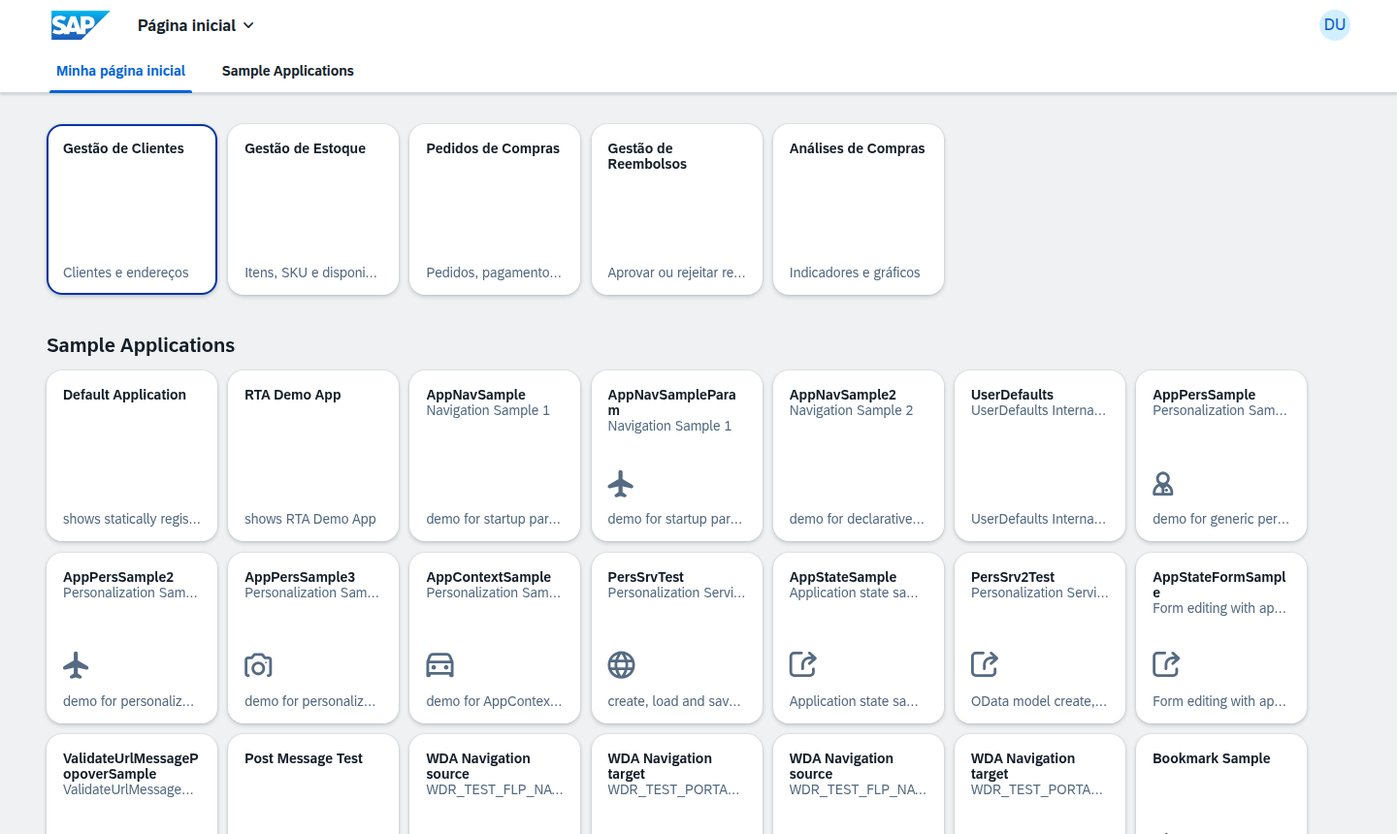
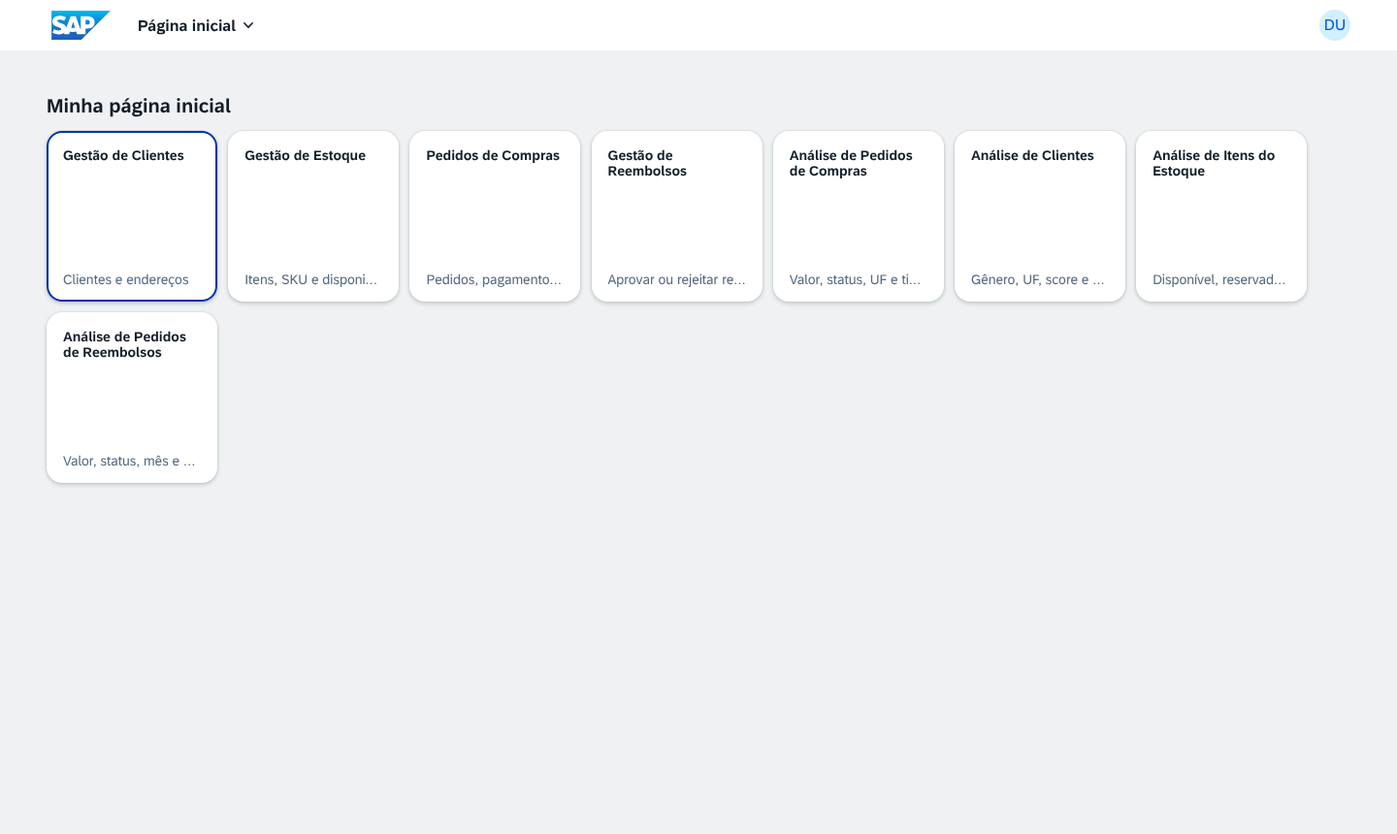
docs: READMEs com as quatro apps de análise, a máscara do pagamento e as navegações
- README principal: oito apps e tiles, tabelas de apps e análises por
  domínio, diálogo Efetuar Pagamento com máscara, novas navegações
  (pedido → reembolso, snapshots → apps de origem, Abrir gestão),
  testes QUnit das análises, v1.5 no histórico; saem as limitações
  resolvidas (cartão sem máscara, grupo Sample Applications no sandbox).
- Capturas novas: launchpad com oito tiles, os quatro painéis de
  análise e o diálogo de pagamento; sai analises.png.
- READMEs de nodejs-padrao e nodejs-typescript com as apps novas.
- Comentário do config.js do launchpad mais claro.

Claude-Session: https://claude.ai/code/session_013oL5EGurJ959oQVN8TwK5j

diff --git a/nodejs-padrao/app/launchpad/config.js b/nodejs-padrao/app/launchpad/config.js
@@ -1,7 +1,8 @@
 /*
  * Configuração do launchpad local (sandbox do SAP Fiori launchpad): um tile
- * por aplicação (quatro de gestão, Pedidos de Compras e quatro de análise). Os intents (objeto semântico + ação) são os mesmos dos
- * inbounds dos manifests, o que habilita a navegação entre as aplicações
+ * por aplicação, quatro de gestão (Clientes, Estoque, Pedidos de Compras e
+ * Reembolsos) e quatro de análise. Os intents (objeto semântico + ação) são
+ * os mesmos dos inbounds dos manifests, o que habilita a navegação entre as aplicações
  * (ex.: cliente e item do pedido abrem as apps de Clientes e Estoque).
  *
  * A resolução de intents no cliente (ClientSideTargetResolution) precisa estar

diff --git a/nodejs-typescript/app/launchpad/config.js b/nodejs-typescript/app/launchpad/config.js
@@ -1,7 +1,8 @@
 /*
  * Configuração do launchpad local (sandbox do SAP Fiori launchpad): um tile
- * por aplicação (quatro de gestão, Pedidos de Compras e quatro de análise). Os intents (objeto semântico + ação) são os mesmos dos
- * inbounds dos manifests, o que habilita a navegação entre as aplicações
+ * por aplicação, quatro de gestão (Clientes, Estoque, Pedidos de Compras e
+ * Reembolsos) e quatro de análise. Os intents (objeto semântico + ação) são
+ * os mesmos dos inbounds dos manifests, o que habilita a navegação entre as aplicações
  * (ex.: cliente e item do pedido abrem as apps de Clientes e Estoque).
  *
  * A resolução de intents no cliente (ClientSideTargetResolution) precisa estar

diff --git a/README.md b/README.md
@@ -1,9 +1,10 @@
 <h1 align="center">Pedidos de Compras – SAP CAP / Node.js</h1>
 
 <p align="center">
-  Cinco aplicações SAPUI5 — <b>Gestão de Clientes</b>, <b>Gestão de Estoque</b>, <b>Pedidos de Compras</b>,
-  <b>Gestão de Reembolsos</b> e <b>Análises de Compras</b> — com backend em <b>SAP Cloud Application
-  Programming Model (CAP)</b> sobre Node.js, em duas versões: <b>JavaScript</b> e <b>TypeScript</b>.
+  Oito aplicações SAPUI5 — quatro de gestão (<b>Clientes</b>, <b>Estoque</b>, <b>Pedidos de Compras</b> e
+  <b>Reembolsos</b>) e quatro de análise (<b>Pedidos de Compras</b>, <b>Clientes</b>, <b>Itens do Estoque</b> e
+  <b>Pedidos de Reembolsos</b>) — com backend em <b>SAP Cloud Application Programming Model (CAP)</b> sobre
+  Node.js, em duas versões: <b>JavaScript</b> e <b>TypeScript</b>.
 </p>
 
 <p align="center">
@@ -80,7 +81,10 @@ regras de domínio, dos testes e dos scripts.
 | Gestão de Estoque | Itens (SKU, foto, categoria, descrição), disponibilidade e status | `EstoqueService` (`/odata/v4/estoque`) | `ZUI_PC_ESTOQUE` |
 | Pedidos de Compras | Pedidos, itens, pagamento simulado, cancelamento e histórico (snapshots) | `PedidosService` (`/odata/v4/pedidos`) | `ZUI_PC_PEDIDOS_COMPRAS` |
 | Gestão de Reembolsos | Aprovação e rejeição de reembolsos de pedidos cancelados com pagamento aprovado | `ReembolsosService` (`/odata/v4/reembolsos`) | `ZUI_PC_REEMBOLSOS` |
-| Análises de Compras | 20 análises (indicadores e gráficos) dos quatro domínios | `AnaliticoService` (`/odata/v4/analitico`) | `ZUI_PC_ANALITICO` |
+| Análise de Pedidos de Compras | Indicadores e 5 gráficos dos pedidos (valor, status, pagamento, UF, mês) | `AnaliticoService` (`/odata/v4/analitico`) | `ZUI_PC_ANALITICO` |
+| Análise de Clientes | Indicadores e 5 gráficos dos clientes (gênero, UF, score, cadastros) | `AnaliticoService` | `ZUI_PC_ANALITICO` |
+| Análise de Itens do Estoque | Indicadores e 5 gráficos do estoque (categoria, situação, reservas, valor) | `AnaliticoService` | `ZUI_PC_ANALITICO` |
+| Análise de Pedidos de Reembolsos | Indicadores e 5 gráficos dos reembolsos (status, mês, UF, motivo) | `AnaliticoService` | `ZUI_PC_ANALITICO` |
 
 > [!NOTE]
 > Em desenvolvimento o banco é **SQLite em memória**, recriado a cada inicialização com os dados de
@@ -92,7 +96,7 @@ regras de domínio, dos testes e dos scripts.
 ## Demonstração
 
 <p align="center">
-  <img src="docs/assets/launchpad.png" alt="Launchpad local com os cinco tiles" width="900">
+  <img src="docs/assets/launchpad.png" alt="Launchpad local com os oito tiles" width="900">
 </p>
 
 | Pedidos de Compras | Object Page do pedido |
@@ -103,9 +107,17 @@ regras de domínio, dos testes e dos scripts.
 | :----------------: | :---------------: |
 | <img src="docs/assets/clientes.png" alt="Lista de clientes" width="440"> | <img src="docs/assets/estoque.png" alt="Lista de itens de estoque" width="440"> |
 
-| Gestão de Reembolsos | Análises de Compras |
-| :------------------: | :-----------------: |
-| <img src="docs/assets/reembolsos.png" alt="Lista de reembolsos" width="440"> | <img src="docs/assets/analises.png" alt="Painel de análises de pedidos" width="440"> |
+| Gestão de Reembolsos | Efetuar Pagamento (campos com máscara) |
+| :------------------: | :------------------------------------: |
+| <img src="docs/assets/reembolsos.png" alt="Lista de reembolsos" width="440"> | <img src="docs/assets/pagamento-mascara.png" alt="Diálogo Efetuar Pagamento com máscara no cartão, validade e CVV" width="440"> |
+
+| Análise de Pedidos de Compras | Análise de Clientes |
+| :---------------------------: | :-----------------: |
+| <img src="docs/assets/analise-pedidos.png" alt="Painel da Análise de Pedidos de Compras" width="440"> | <img src="docs/assets/analise-clientes.png" alt="Painel da Análise de Clientes" width="440"> |
+
+| Análise de Itens do Estoque | Análise de Pedidos de Reembolsos |
+| :-------------------------: | :------------------------------: |
+| <img src="docs/assets/analise-estoque.png" alt="Painel da Análise de Itens do Estoque" width="440"> | <img src="docs/assets/analise-reembolsos.png" alt="Painel da Análise de Pedidos de Reembolsos" width="440"> |
 
 ---
 
@@ -126,19 +138,24 @@ regras de domínio, dos testes e dos scripts.
   pedido (`ABERTO`) e reserva o estoque; no pedido aberto só os **itens** mudam e a reserva é
   ajustada pela **diferença**. O pedido não é excluído — só **Efetuar Pagamento**, **Aprovar pedido**
   e **Cancelar pedido** (com motivo).
-- **Pagamento simulado** por cartão (VISA/Mastercard): número, validade e CVV ficam só em memória;
-  gravam-se bandeira, últimos 4 dígitos e máscara. A seção de pagamento é somente leitura e só a ação
-  *Efetuar Pagamento* a preenche.
+- **Pagamento simulado** por cartão (VISA/Mastercard): o diálogo de *Efetuar Pagamento* tem máscara
+  de digitação no número do cartão (`9999 9999 9999 9999`), na validade (`MM/AA`) e no CVV (`999`).
+  Número, validade e CVV ficam só em memória; gravam-se bandeira, últimos 4 dígitos e máscara. A seção
+  de pagamento é somente leitura e só a ação *Efetuar Pagamento* a preenche.
 - **Object Page dinâmica do pedido**: *Dados do Cliente*, *Dados do Pedido*, *Itens*, *Pagamento* e,
   conforme o status, *Finalização* ou *Cancelamento*; cliente e itens vêm dos **snapshots** quando o
   pedido está `FINALIZADO` ou `CANCELADO`.
 - **Reembolso**: cancelar um pedido com pagamento aprovado abre uma solicitação
   (`PROCESSANDO_REEMBOLSO`), decidida na app **Gestão de Reembolsos**.
 - **Importação por planilha** (`.xlsx` ou `.csv`) em Clientes, Estoque e Pedidos, tudo ou nada.
-- **Análises**: app freestyle com 20 análises sobre um serviço com agregações `$apply`.
-- **Launchpad local** (sandbox do SAP Fiori launchpad) com os cinco tiles e navegação entre as apps
-  por objetos semânticos: no pedido, Cliente e CPF abrem o cliente e Item e SKU abrem o item; no
-  reembolso, o Pedido abre o pedido e Cliente e CPF abrem o cliente, sempre direto no registro.
+- **Análises**: quatro apps freestyle, uma por domínio (pedidos, clientes, estoque e reembolsos),
+  cada uma com barra de filtros, indicadores, 5 gráficos e página de detalhe, sobre um serviço com
+  agregações `$apply`; o botão *Abrir gestão* leva à app de gestão do domínio.
+- **Launchpad local** (sandbox do SAP Fiori launchpad) com os oito tiles e navegação entre as apps
+  por objetos semânticos, sempre direto no registro: no pedido, Cliente e CPF abrem o cliente, Item e
+  SKU abrem o item e *Solicitação de reembolso* abre o reembolso do pedido; no histórico do pedido
+  (snapshots), cliente e item também abrem as apps de origem; no reembolso, o Pedido abre o pedido e
+  Cliente e CPF abrem o cliente.
 - **Autorização** por papel: `Admin` e `Comum` (`@requires` / `@restrict`).
 - **Concorrência** de estoque com `UPDATE` condicional atômico na transação da requisição.
 
@@ -152,7 +169,7 @@ regras de domínio, dos testes e dos scripts.
 | Linguagem | JavaScript (`nodejs-padrao`) e TypeScript 6 `strict` com `@cap-js/cds-typer` e `tsx` (`nodejs-typescript`) |
 | Banco | SQLite em memória (`@cap-js/sqlite`) em desenvolvimento; SAP HANA Cloud na implantação (pendente) |
 | Serviços | OData V4 com rascunho (draft), `@restrict`, `@assert`/`@mandatory`, side effects, `$apply` |
-| Front-end | SAPUI5 1.148 (LTS): Fiori Elements V4 (List Report + Object Page) e app freestyle, servidos pelo `cds-plugin-ui5` |
+| Front-end | SAPUI5 1.148 (LTS): Fiori Elements V4 (List Report + Object Page) e apps freestyle, servidos pelo `cds-plugin-ui5` |
 | Integração | ViaCEP via `fetch` nativo (URL em `cds.requires.viacep`) |
 | Ferramentas | `@sap/cds-dk` 10, SAP Fiori tools (geração das apps), UI5 linter, ESLint 10, `local-ssl-proxy` (HTTPS local) |
 | Testes | `node:test` + `@cap-js/cds-test` (68 testes por versão), ViaCEP falso local |
@@ -169,7 +186,7 @@ flowchart LR
         APPE["Gestão de Estoque"]
         APPP["Pedidos de Compras"]
         APPR["Gestão de Reembolsos"]
-        APPA["Análises de Compras"]
+        APPA["Análises<br/>Pedidos · Clientes<br/>Estoque · Reembolsos"]
     end
 
     subgraph CAP["SAP CAP (Node.js)"]
@@ -192,6 +209,8 @@ flowchart LR
     APPP -. objeto semântico .-> APPE
     APPR -. objeto semântico .-> APPP
     APPR -. objeto semântico .-> APPC
+    APPP -. objeto semântico .-> APPR
+    APPA -. abrir gestão .-> APPC & APPE & APPP & APPR
     SC & SE & SP & SR --> LIB
     LIB --> DB
     SA --> DB
@@ -239,7 +258,10 @@ stateDiagram-v2
 │   │   ├── gestao-estoque/            Fiori Elements
 │   │   ├── pedidos-compras/           Fiori Elements
 │   │   ├── gestao-reembolsos/         Fiori Elements
-│   │   ├── analise-compras/           SAPUI5 freestyle (20 análises)
+│   │   ├── analise-pedidos/           SAPUI5 freestyle: Análise de Pedidos de Compras
+│   │   ├── analise-clientes/          SAPUI5 freestyle: Análise de Clientes
+│   │   ├── analise-estoque/           SAPUI5 freestyle: Análise de Itens do Estoque
+│   │   ├── analise-reembolsos/        SAPUI5 freestyle: Análise de Pedidos de Reembolsos
 │   │   ├── launchpad.html             sandbox do SAP Fiori launchpad
 │   │   └── launchpad/                 configuração e inicialização do launchpad
 │   ├── db/
@@ -306,7 +328,7 @@ npm install
 npm run watch            # serviços + apps em http://localhost:4004
 ```
 
-Abra `http://localhost:4004/launchpad.html` (launchpad com os cinco tiles) ou a página inicial do
+Abra `http://localhost:4004/launchpad.html` (launchpad com os oito tiles) ou a página inicial do
 CAP, que lista serviços e apps. O banco SQLite em memória é recriado a cada inicialização com os dados
 de `db/data`: 100 clientes, 100 itens e 100 pedidos em todos os status (porte das classes
 `ZCL_SETUP_*`). Para regenerar os CSVs: `npm run dados:demo`.
@@ -341,7 +363,7 @@ Autenticação *mocked* do CAP:
 ## Front-end Fiori
 
 Quatro apps **Fiori Elements OData V4** (List Report + Object Page), geradas com o **SAP Fiori tools**,
-e uma app **SAPUI5 freestyle**. Ficam em `app/` de cada implementação e são servidas pelo próprio CAP
+e quatro apps **SAPUI5 freestyle** de análise. Ficam em `app/` de cada implementação e são servidas pelo próprio CAP
 via `cds-plugin-ui5`. A UI é orientada a anotações: colunas, filtros, seções, ações, criticidade e
 side effects vêm de `app/<app>/annotations.cds` e `app/common.cds`.
 
@@ -349,14 +371,23 @@ side effects vêm de `app/<app>/annotations.cds` e `app/common.cds`.
 | --- | --- | --- | --- |
 | Gestão de Clientes | `/gestaoclientes/index.html` | Cliente → Endereço | `Cliente-manage` |
 | Gestão de Estoque | `/gestaoestoque/index.html` | Item | `ItemEstoque-manage` |
-| Pedidos de Compras | `/pedidoscompras/index.html` | Pedido → Item do pedido / Item histórico | `PedidoCompra-manage` |
+| Pedidos de Compras | `/pedidoscompras/index.html` | Pedido → Item do pedido / Item no encerramento | `PedidoCompra-manage` |
 | Gestão de Reembolsos | `/gestaoreembolsos/index.html` | Reembolso | `Reembolso-manage` |
-| Análises de Compras | `/analisecompras/index.html` | Painel por domínio → Detalhe da análise | `AnaliseCompras-display` |
+| Análise de Pedidos de Compras | `/analisepedidos/index.html` | Painel → Detalhe da análise | `AnalisePedidos-display` |
+| Análise de Clientes | `/analiseclientes/index.html` | Painel → Detalhe da análise | `AnaliseClientes-display` |
+| Análise de Itens do Estoque | `/analiseestoque/index.html` | Painel → Detalhe da análise | `AnaliseEstoque-display` |
+| Análise de Pedidos de Reembolsos | `/analisereembolsos/index.html` | Painel → Detalhe da análise | `AnaliseReembolsos-display` |
 
 - **Importar planilha**: ação customizada no List Report de Clientes, Estoque e Pedidos
   (`webapp/ext/ImportarPlanilha.js`), com diálogo de escolha de arquivo que chama a action
   `importarPlanilha` do serviço.
 - **Itens do pedido** são criados na própria tabela (*inline*), só no rascunho.
+- **Efetuar Pagamento** (List Report e Object Page do pedido) abre um diálogo próprio
+  (`webapp/ext/EfetuarPagamento.js`) com `sap.m.MaskInput` no cartão, na validade e no CVV — o diálogo
+  padrão de parâmetros do Fiori Elements não tem máscara de digitação. O botão só habilita com todos os
+  campos completos e mês de validade entre 01 e 12; a chamada é a mesma action vinculada, pelo
+  `editFlow`, e o backend continua validando tudo. A ação fica no menu *Ações* junto de *Aprovar
+  pedido* e *Cancelar pedido*.
 - **Navegação entre apps** (no launchpad local): os campos abaixo viram links que abrem a Object
   Page do registro na app de destino, que o localiza pela chave semântica (`cpf`, `sku`,
   `numeroPedido`) recebida no contexto da navegação.
@@ -365,8 +396,17 @@ side effects vêm de `app/<app>/annotations.cds` e `app/common.cds`.
   | --- | --- | --- |
   | Pedidos | Cliente, CPF | Gestão de Clientes (`Cliente-manage`, `cpfCliente` → `cpf`) |
   | Itens do pedido | Item, SKU | Gestão de Estoque (`ItemEstoque-manage`, `skuItem` → `sku`) |
+  | Pedidos | *Solicitação de reembolso* (link direto, só quando o pedido tem reembolso) | Gestão de Reembolsos (`Reembolso-manage`, `numeroPedido`) |
+  | Pedidos (encerrado) | Cliente, CPF do snapshot | Gestão de Clientes (`Cliente-manage`) |
+  | Item no encerramento | Item, SKU do snapshot | Gestão de Estoque (`ItemEstoque-manage`) |
   | Reembolsos | Pedido (link direto, `DataFieldWithIntentBasedNavigation`) | Pedidos de Compras (`PedidoCompra-manage`) |
   | Reembolsos | Cliente, CPF | Gestão de Clientes (`Cliente-manage`) |
+  | Apps de análise | Botão *Abrir gestão* | App de gestão do domínio |
+
+  O launchpad liga a resolução de intents no cliente (`ClientSideTargetResolution`); sem ela o Fiori
+  Elements não recebe os objetos semânticos disponíveis e esconde os links.
+- **Object Page do item no encerramento** (snapshot do pedido finalizado ou cancelado): mostra nome,
+  SKU, descrição, categoria, quantidade, preço, total e data do congelamento.
 - **Validação**: manifests na versão 2.0.0, UI5 linter sem apontamentos; telas conferidas no navegador.
 
 ---
@@ -417,6 +457,10 @@ ajustados junto com as regras de negócio. São 68 testes por versão, todos pas
 | `analitico.test` | Agregações `$apply` dos quatro domínios | — |
 
 Os testes rodam sem o `cds-plugin-ui5` (`CDS_PLUGIN_UI5_ACTIVE=false`), porque exercitam só o backend.
+
+As apps de análise têm ainda testes **QUnit** do catálogo de cenários e da montagem das consultas
+`$apply` (`webapp/test/unit`), executados no navegador com `npm run watch` em
+`/<app>/test/testsuite.qunit.html` (ex.: `/analisepedidos/test/testsuite.qunit.html`).
 
 ---
 
@@ -557,9 +601,20 @@ Camada analítica **somente leitura**: `AnaliticoService` expõe `PedidosAnalise
 `ItensAnalise` e `ReembolsosAnalise`, com dimensões e medidas (`@Aggregation.default`, expostas como
 *custom aggregates*), o que permite `$apply=groupby/aggregate` no servidor.
 
-O front-end é a app **freestyle** `analise-compras` (porte da app do projeto RAP): um painel por
-domínio (Pedidos, Clientes, Estoque, Reembolsos) com barra de filtros, indicadores e 5 gráficos cada,
-num total de 20 análises, e uma página de detalhe por análise.
+O front-end são quatro apps **freestyle** (porte da app de análises do projeto RAP, dividida por
+domínio), cada uma com barra de filtros, indicadores, 5 gráficos e uma página de detalhe por análise
+(gráfico ampliado e tabela), num total de 20 análises:
+
+| App | Entidade | Indicadores | Análises |
+| --- | --- | --- | --- |
+| Análise de Pedidos de Compras (`analise-pedidos`) | `PedidosAnalise` | Valor total, pedidos, ticket médio | Valor por status; pedidos por mês; valor por UF; pedidos por status do pagamento; ticket médio por status |
+| Análise de Clientes (`analise-clientes`) | `ClientesAnalise` | Clientes, score médio | Por gênero; por UF; por faixa de score; cadastros por mês; score médio por UF |
+| Análise de Itens do Estoque (`analise-estoque`) | `ItensAnalise` | Itens, em estoque, reservada, disponível, valor em estoque | Estoque por categoria; itens por situação; valor por categoria; mais reservados (top 10); itens por categoria |
+| Análise de Pedidos de Reembolsos (`analise-reembolsos`) | `ReembolsosAnalise` | Reembolsos, valor | Valor por status; quantidade por status; valor por mês; valor por UF; por motivo da solicitação |
+
+As quatro compartilham a mesma estrutura (`model/Scenarios.js` com as medidas, dimensões e cenários
+do domínio, `model/AnalyticsQuery.js` para o `$apply`, `control/AnalysisChart.js` e `FilterBar.js`) e
+o botão *Abrir gestão* navega para a app de gestão do domínio.
 
 ---
 
@@ -588,12 +643,8 @@ num total de 20 análises, e uma página de detalhe por análise.
   HANA Cloud ainda não foi testada.
 - **Autenticação de produção** (XSUAA/IAS) e descritor MTA ainda não configurados; em desenvolvimento
   a autenticação é *mocked*.
-- **Launchpad local**: o sandbox do SAPUI5 1.148 mostra, além dos cinco tiles, o grupo padrão
-  *Sample Applications* do próprio sandbox.
 - **Object Page**: as seções são carregadas sob demanda; ao abrir um pedido a página pode começar
   rolada para *Dados do Pedido* — role para cima ou use a barra de seções para ver *Dados do Cliente*.
-- **Dados do cartão** aparecem sem máscara no diálogo da ação (parâmetros de action do Fiori Elements);
-  não são gravados nem registrados em log.
 
 ---
 
@@ -601,6 +652,7 @@ num total de 20 análises, e uma página de detalhe por análise.
 
 | Versão | Mudanças |
 | --- | --- |
+| v1.5 | Análises divididas em quatro apps (Análise de Pedidos de Compras, de Clientes, de Itens do Estoque e de Pedidos de Reembolsos), com tiles próprios no launchpad e testes QUnit corrigidos; máscara de digitação no diálogo *Efetuar Pagamento*; navegações das Object Pages completadas (pedido → reembolso, histórico do cliente e dos itens → apps de origem, Object Page do item no encerramento); especificação técnica 2.2 |
 | v1.4 | Importação de pedidos sem duplicidade: a coluna Pedido vira a *Referência de importação* do pedido, e a mesma referência para o mesmo cliente é recusada enquanto houver pedido não cancelado com ela; 68 testes por versão; especificação técnica 2.1 |
 | v1.3 | Navegação entre aplicações: no pedido, Cliente/CPF → Gestão de Clientes e Item/SKU → Gestão de Estoque; no reembolso, Pedido → Pedidos de Compras e Cliente/CPF → Gestão de Clientes; `skuItem` em `ItensPedido` e CPF sem formatação em `Reembolsos` para o contexto da navegação |
 | v1.2 | Correção no pedido: só o cliente (na criação) e os itens são informados; dados do cliente lidos pela associação e somente leitura (antes apareciam editáveis e obrigatórios e ficavam vazios no rascunho); pagamento e snapshots somente leitura, gravados só pelas ações; observação somente leitura na tela; testes de regressão (66 por versão); README principal no modelo do projeto RAP |

diff --git a/nodejs-padrao/README.md b/nodejs-padrao/README.md
@@ -2,8 +2,8 @@
 
 Porte para o **SAP Cloud Application Programming Model (CAP) 10** da aplicação de Pedidos de
 Compras construída em SAP RAP (pacote `ZAVBS_PC`). Backend em **Node.js (ESM, JavaScript)**,
-banco **SQLite** em desenvolvimento e cinco aplicações **SAPUI5** (quatro Fiori Elements e uma
-freestyle) servidas pelo próprio CAP.
+banco **SQLite** em desenvolvimento e oito aplicações **SAPUI5** (quatro Fiori Elements de gestão e
+quatro freestyle de análise) servidas pelo próprio CAP.
 
 > A versão em TypeScript (equivalente, com tipos gerados pelo cds-typer) fica em
 > [`../nodejs-typescript`](../nodejs-typescript) e a especificação técnica em
@@ -17,7 +17,10 @@ freestyle) servidas pelo próprio CAP.
 | Gestão de Estoque | `/gestaoestoque/index.html` | `/odata/v4/estoque` (`EstoqueService`) | `ZUI_PC_ESTOQUE` |
 | Pedidos de Compras | `/pedidoscompras/index.html` | `/odata/v4/pedidos` (`PedidosService`) | `ZUI_PC_PEDIDOS_COMPRAS` |
 | Gestão de Reembolsos | `/gestaoreembolsos/index.html` | `/odata/v4/reembolsos` (`ReembolsosService`) | `ZUI_PC_REEMBOLSOS` |
-| Análises de Compras | `/analisecompras/index.html` | `/odata/v4/analitico` (`AnaliticoService`) | `ZUI_PC_ANALITICO` |
+| Análise de Pedidos de Compras | `/analisepedidos/index.html` | `/odata/v4/analitico` (`AnaliticoService`) | `ZUI_PC_ANALITICO` |
+| Análise de Clientes | `/analiseclientes/index.html` | `/odata/v4/analitico` (`AnaliticoService`) | `ZUI_PC_ANALITICO` |
+| Análise de Itens do Estoque | `/analiseestoque/index.html` | `/odata/v4/analitico` (`AnaliticoService`) | `ZUI_PC_ANALITICO` |
+| Análise de Pedidos de Reembolsos | `/analisereembolsos/index.html` | `/odata/v4/analitico` (`AnaliticoService`) | `ZUI_PC_ANALITICO` |
 | Launchpad local | `/launchpad.html` | — | Fiori Launchpad / Work Zone |
 
 ## Tecnologias
@@ -27,7 +30,7 @@ freestyle) servidas pelo próprio CAP.
 | Runtime | Node.js 22+, `@sap/cds` 10, módulos ESM |
 | Banco | SQLite em memória (`@cap-js/sqlite`) — SAP HANA Cloud fica para a implantação |
 | Serviços | OData V4 com rascunho (draft), `@restrict`, `@assert`/`@mandatory`, `$apply` |
-| Front-end | SAPUI5 1.148 (LTS): Fiori Elements V4 (List Report/Object Page) e app freestyle, `cds-plugin-ui5` |
+| Front-end | SAPUI5 1.148 (LTS): Fiori Elements V4 (List Report/Object Page) e apps freestyle, `cds-plugin-ui5` |
 | Integração | ViaCEP (`fetch` nativo, URL em `cds.requires.viacep`) |
 | Qualidade | `node:test` + `@cap-js/cds-test` (68 testes), ESLint 10, UI5 linter |
 
@@ -38,7 +41,7 @@ npm install          # instala o CAP e as dependências dos apps (workspaces app
 npm run watch        # cds watch: serviços + apps em http://localhost:4004
 ```
 
-Abra `http://localhost:4004/launchpad.html` (launchpad com os cinco tiles) ou a página inicial do
+Abra `http://localhost:4004/launchpad.html` (launchpad com os oito tiles) ou a página inicial do
 CAP. Usuários de desenvolvimento (autenticação *mocked*):
 
 | Usuário | Senha | Papel | Permissões |
@@ -69,6 +72,9 @@ junto com as regras de negócio.
 | `test/importacao.test.js` | importação de clientes, estoque e pedidos (tudo ou nada), reimportação de pedidos recusada e dos modelos em `docs/` |
 | `test/analitico.test.js` | agregações `$apply` dos quatro domínios |
 
+As apps de análise têm testes QUnit em `app/analise-*/webapp/test`, abertos no navegador com
+`npm run watch` (ex.: `/analisepedidos/test/testsuite.qunit.html`).
+
 ## Estrutura
 
 ```text
@@ -81,7 +87,10 @@ nodejs-padrao/
 │   ├── gestao-estoque/          Fiori Elements
 │   ├── pedidos-compras/         Fiori Elements
 │   ├── gestao-reembolsos/       Fiori Elements
-│   ├── analise-compras/         SAPUI5 freestyle (20 análises)
+│   ├── analise-pedidos/         SAPUI5 freestyle: Análise de Pedidos de Compras
+│   ├── analise-clientes/        SAPUI5 freestyle: Análise de Clientes
+│   ├── analise-estoque/         SAPUI5 freestyle: Análise de Itens do Estoque
+│   ├── analise-reembolsos/      SAPUI5 freestyle: Análise de Pedidos de Reembolsos
 │   ├── launchpad.html           sandbox do Fiori launchpad
 │   └── launchpad/               configuração e inicialização do launchpad
 ├── db/
@@ -109,12 +118,14 @@ nodejs-padrao/
   só é alterada pelos pedidos; inativação e exclusão controladas.
 - **Pedidos**: o Save do rascunho registra o pedido (`ABERTO`), gera o número e reserva o estoque;
   no pedido aberto só os itens mudam e a reserva é ajustada pela diferença; *Efetuar Pagamento*
-  (cartão simulado, nada sensível é gravado), *Aprovar pedido* (baixa, snapshots, `FINALIZADO`) e
+  (cartão simulado em diálogo com máscara no cartão, validade e CVV; nada sensível é gravado), *Aprovar pedido* (baixa, snapshots, `FINALIZADO`) e
   *Cancelar pedido* (libera a reserva e gera snapshots; com pagamento aprovado abre reembolso).
 - **Reembolsos**: *Aprovar* cancela o pedido, libera a reserva e devolve o pagamento; *Rejeitar*
   (motivo obrigatório) devolve o pedido ao status anterior.
-- **Navegação entre apps** (launchpad local): no pedido, Cliente/CPF abrem o cliente e Item/SKU
-  abrem o item; no reembolso, o Pedido abre o pedido e Cliente/CPF abrem o cliente.
+- **Navegação entre apps** (launchpad local): no pedido, Cliente/CPF abrem o cliente, Item/SKU
+  abrem o item e *Solicitação de reembolso* abre o reembolso; no histórico (snapshots), cliente e item
+  abrem as apps de origem; no reembolso, o Pedido abre o pedido e Cliente/CPF abrem o cliente; nas
+  análises, *Abrir gestão* abre a app de gestão do domínio.
 - **Concorrência**: cada movimento de estoque é um `UPDATE` condicional atômico ("só reserva se o
   saldo atual cobre a quantidade"); qualquer erro desfaz a transação inteira.
 - **Importação por planilha** (`.xlsx`/`.csv`) em Clientes, Estoque e Pedidos, tudo ou nada; a

diff --git a/nodejs-typescript/README.md b/nodejs-typescript/README.md
@@ -3,7 +3,7 @@
 Versão em **TypeScript** do porte para o **SAP Cloud Application Programming Model (CAP) 10** da
 aplicação de Pedidos de Compras construída em SAP RAP (pacote `ZAVBS_PC`). É funcionalmente idêntica
 à versão JavaScript de [`../nodejs-padrao`](../nodejs-padrao): mesmo modelo CDS, mesmos serviços OData,
-mesmas cinco aplicações SAPUI5, mesmos dados de demonstração e a mesma suíte de 68 testes, agora com
+mesmas oito aplicações SAPUI5, mesmos dados de demonstração e a mesma suíte de 68 testes, agora com
 handlers, regras de domínio, testes e scripts escritos em TypeScript `strict` e tipados a partir do
 modelo CDS pelo **cds-typer**.
 
@@ -17,7 +17,10 @@ modelo CDS pelo **cds-typer**.
 | Gestão de Estoque | `/gestaoestoque/index.html` | `/odata/v4/estoque` (`EstoqueService`) | `ZUI_PC_ESTOQUE` |
 | Pedidos de Compras | `/pedidoscompras/index.html` | `/odata/v4/pedidos` (`PedidosService`) | `ZUI_PC_PEDIDOS_COMPRAS` |
 | Gestão de Reembolsos | `/gestaoreembolsos/index.html` | `/odata/v4/reembolsos` (`ReembolsosService`) | `ZUI_PC_REEMBOLSOS` |
-| Análises de Compras | `/analisecompras/index.html` | `/odata/v4/analitico` (`AnaliticoService`) | `ZUI_PC_ANALITICO` |
+| Análise de Pedidos de Compras | `/analisepedidos/index.html` | `/odata/v4/analitico` (`AnaliticoService`) | `ZUI_PC_ANALITICO` |
+| Análise de Clientes | `/analiseclientes/index.html` | `/odata/v4/analitico` (`AnaliticoService`) | `ZUI_PC_ANALITICO` |
+| Análise de Itens do Estoque | `/analiseestoque/index.html` | `/odata/v4/analitico` (`AnaliticoService`) | `ZUI_PC_ANALITICO` |
+| Análise de Pedidos de Reembolsos | `/analisereembolsos/index.html` | `/odata/v4/analitico` (`AnaliticoService`) | `ZUI_PC_ANALITICO` |
 | Launchpad local | `/launchpad.html` | — | Fiori Launchpad / Work Zone |
 
 ## Tecnologias
@@ -30,7 +33,7 @@ modelo CDS pelo **cds-typer**.
 | Execução | `tsx` em desenvolvimento e testes; `tsc` no `cds build` (JavaScript em `gen/srv`) |
 | Banco | SQLite em memória (`@cap-js/sqlite`) — SAP HANA Cloud fica para a implantação |
 | Serviços | OData V4 com rascunho (draft), `@restrict`, `@assert`/`@mandatory`, `$apply` |
-| Front-end | SAPUI5 1.148 (LTS): Fiori Elements V4 (List Report/Object Page) e app freestyle, `cds-plugin-ui5` |
+| Front-end | SAPUI5 1.148 (LTS): Fiori Elements V4 (List Report/Object Page) e apps freestyle, `cds-plugin-ui5` |
 | Integração | ViaCEP (`fetch` nativo, URL em `cds.requires.viacep`) |
 | Qualidade | `node:test` + `@cap-js/cds-test` (68 testes), ESLint 10 + `typescript-eslint`, `tsc --noEmit` |
 
@@ -41,7 +44,7 @@ npm install          # instala o CAP, as ferramentas TypeScript e os apps (works
 npm run watch        # cds-tsx watch: gera @cds-models, serve os .ts com tsx em http://localhost:4004
 ```
 
-Abra `http://localhost:4004/launchpad.html` (launchpad com os cinco tiles) ou a página inicial do
+Abra `http://localhost:4004/launchpad.html` (launchpad com os oito tiles) ou a página inicial do
 CAP. Usuários de desenvolvimento (autenticação *mocked*):
 
 | Usuário | Senha | Papel | Permissões |
@@ -127,7 +130,7 @@ variável, os serviços ficariam só com os handlers genéricos e os testes de r
 ```text
 nodejs-typescript/
 ├── _i18n/messages.properties    mensagens de negócio (porte da message class ZPC_MSG)
-├── app/                         as mesmas cinco apps e o launchpad da versão JavaScript
+├── app/                         as mesmas oito apps e o launchpad da versão JavaScript
 ├── db/
 │   ├── common.cds               tipos e CodeLists
 │   ├── schema.cds               entidades (porte das tabelas ZTA_PC_*)
